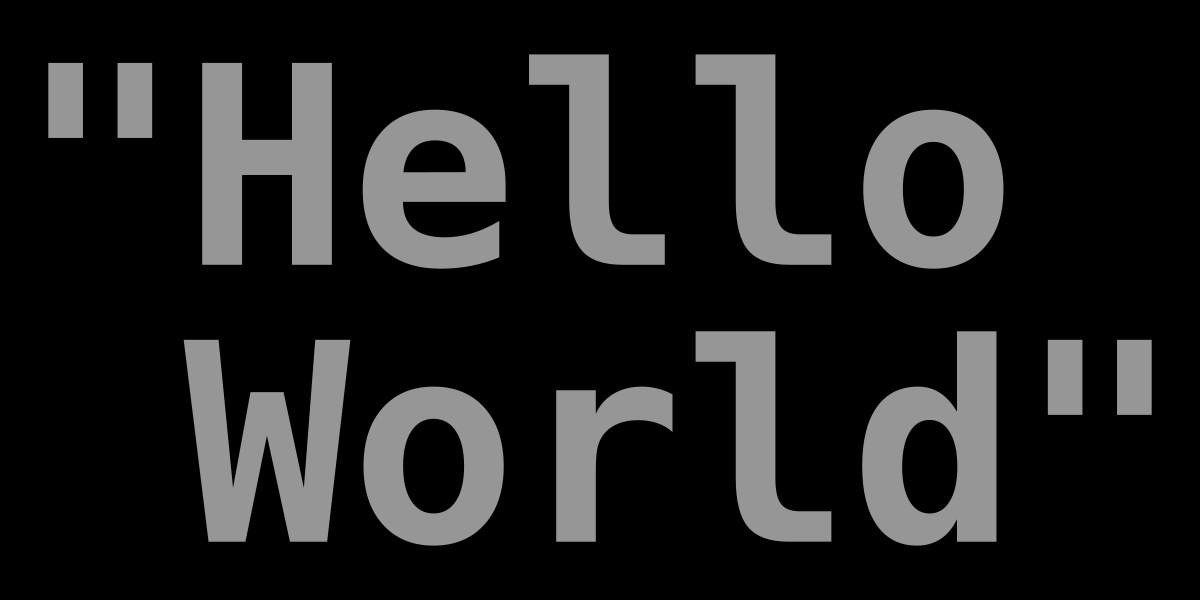
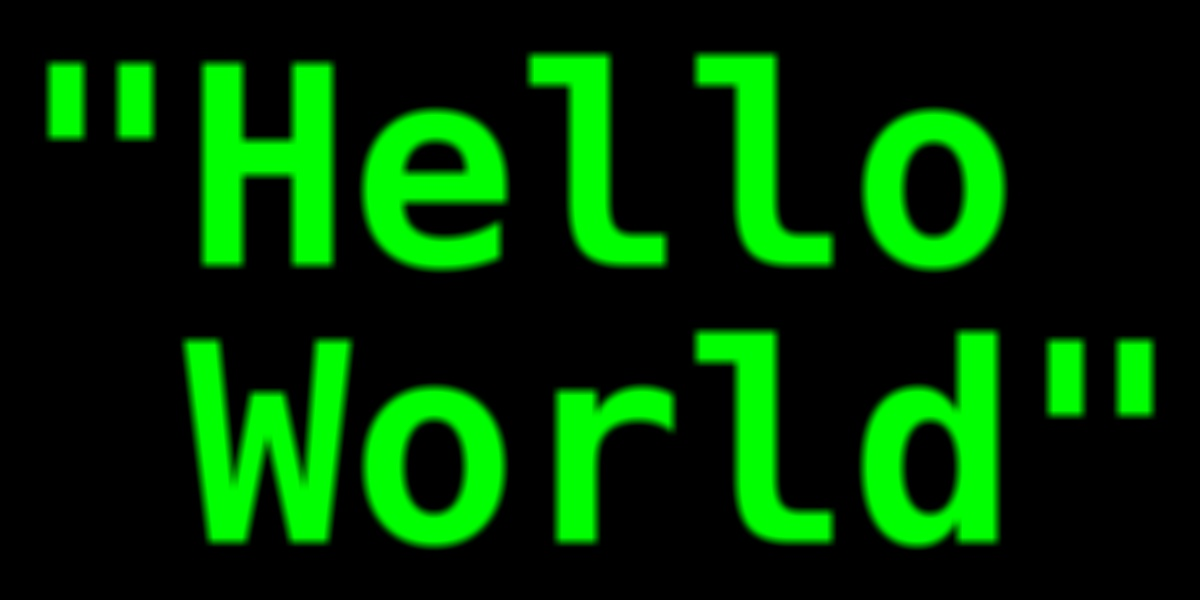
ajout du flou + separation en plusieurs fonction

diff --git a/imagefilter/image.py b/imagefilter/image.py
@@ -2,10 +2,22 @@ import cv2
 
 def open_image():
     image = cv2.imread('helloWorld.png')
-    cv2.imshow('Original image',image)
+    return image
+
+
+
+def nb(image):
     gray = cv2.cvtColor(image, cv2.COLOR_BGR2GRAY)
-    cv2.imshow('Original image', gray)
-    cv2.waitKey(0)
-    cv2.destroyAllWindows()
-    cv2.imwrite('imagesvg/image.jpeg', gray)
-open_image()
+    return gray
+def blur(image):
+    ksize = (10, 10)
+    blur = cv2.blur(image, ksize)
+    return blur
+def save(imageToSave):
+    cv2.imwrite('imagesvg/image.jpeg', imageToSave)
+
+
+
+image = open_image()
+blur = blur(image)
+save(blur)
